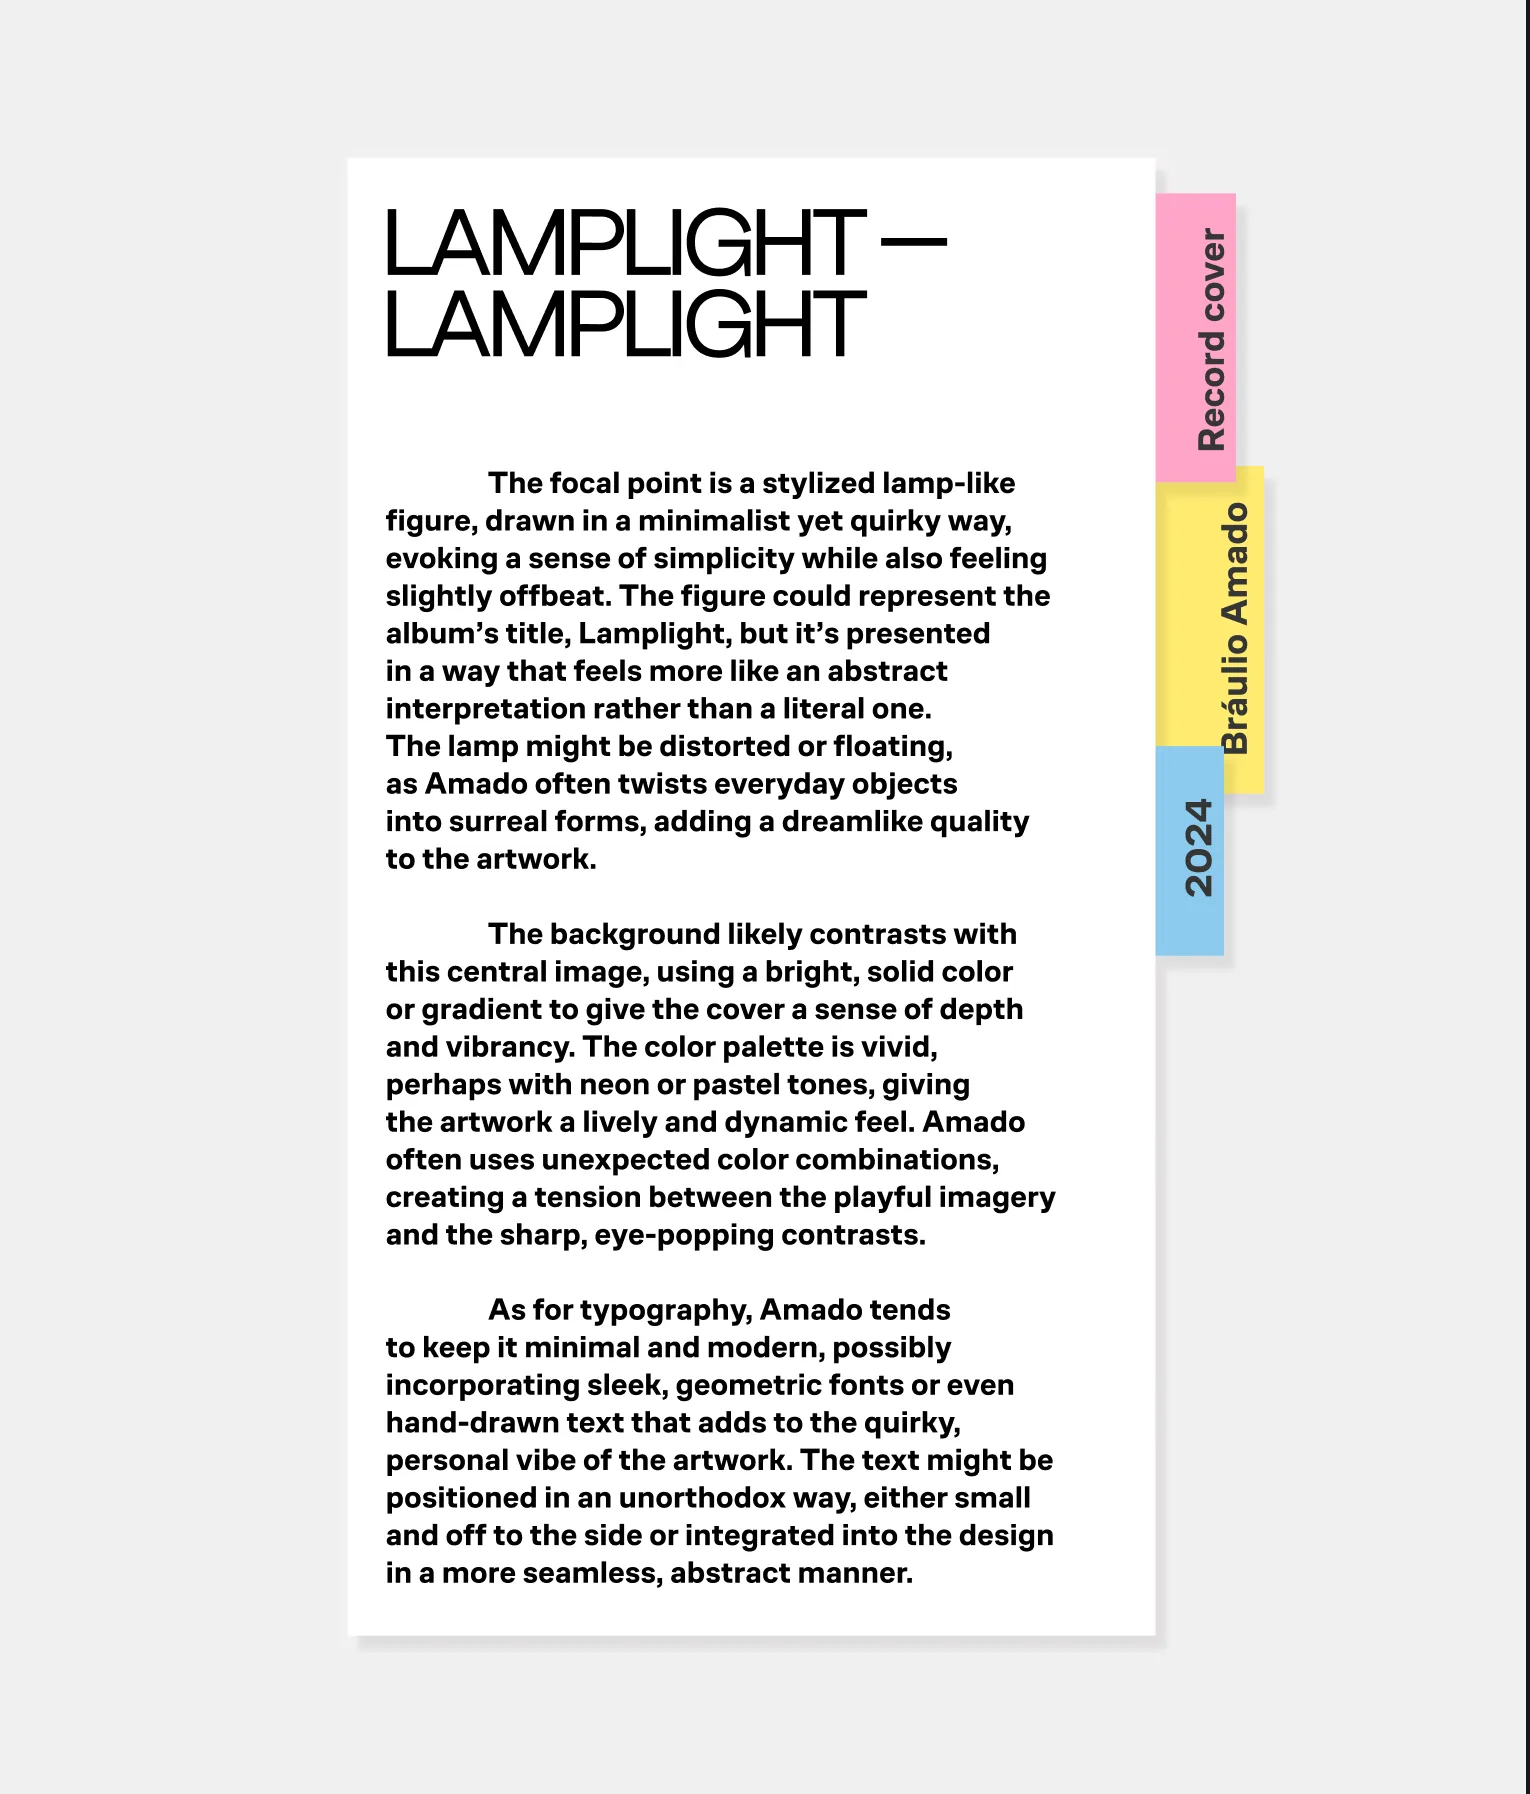
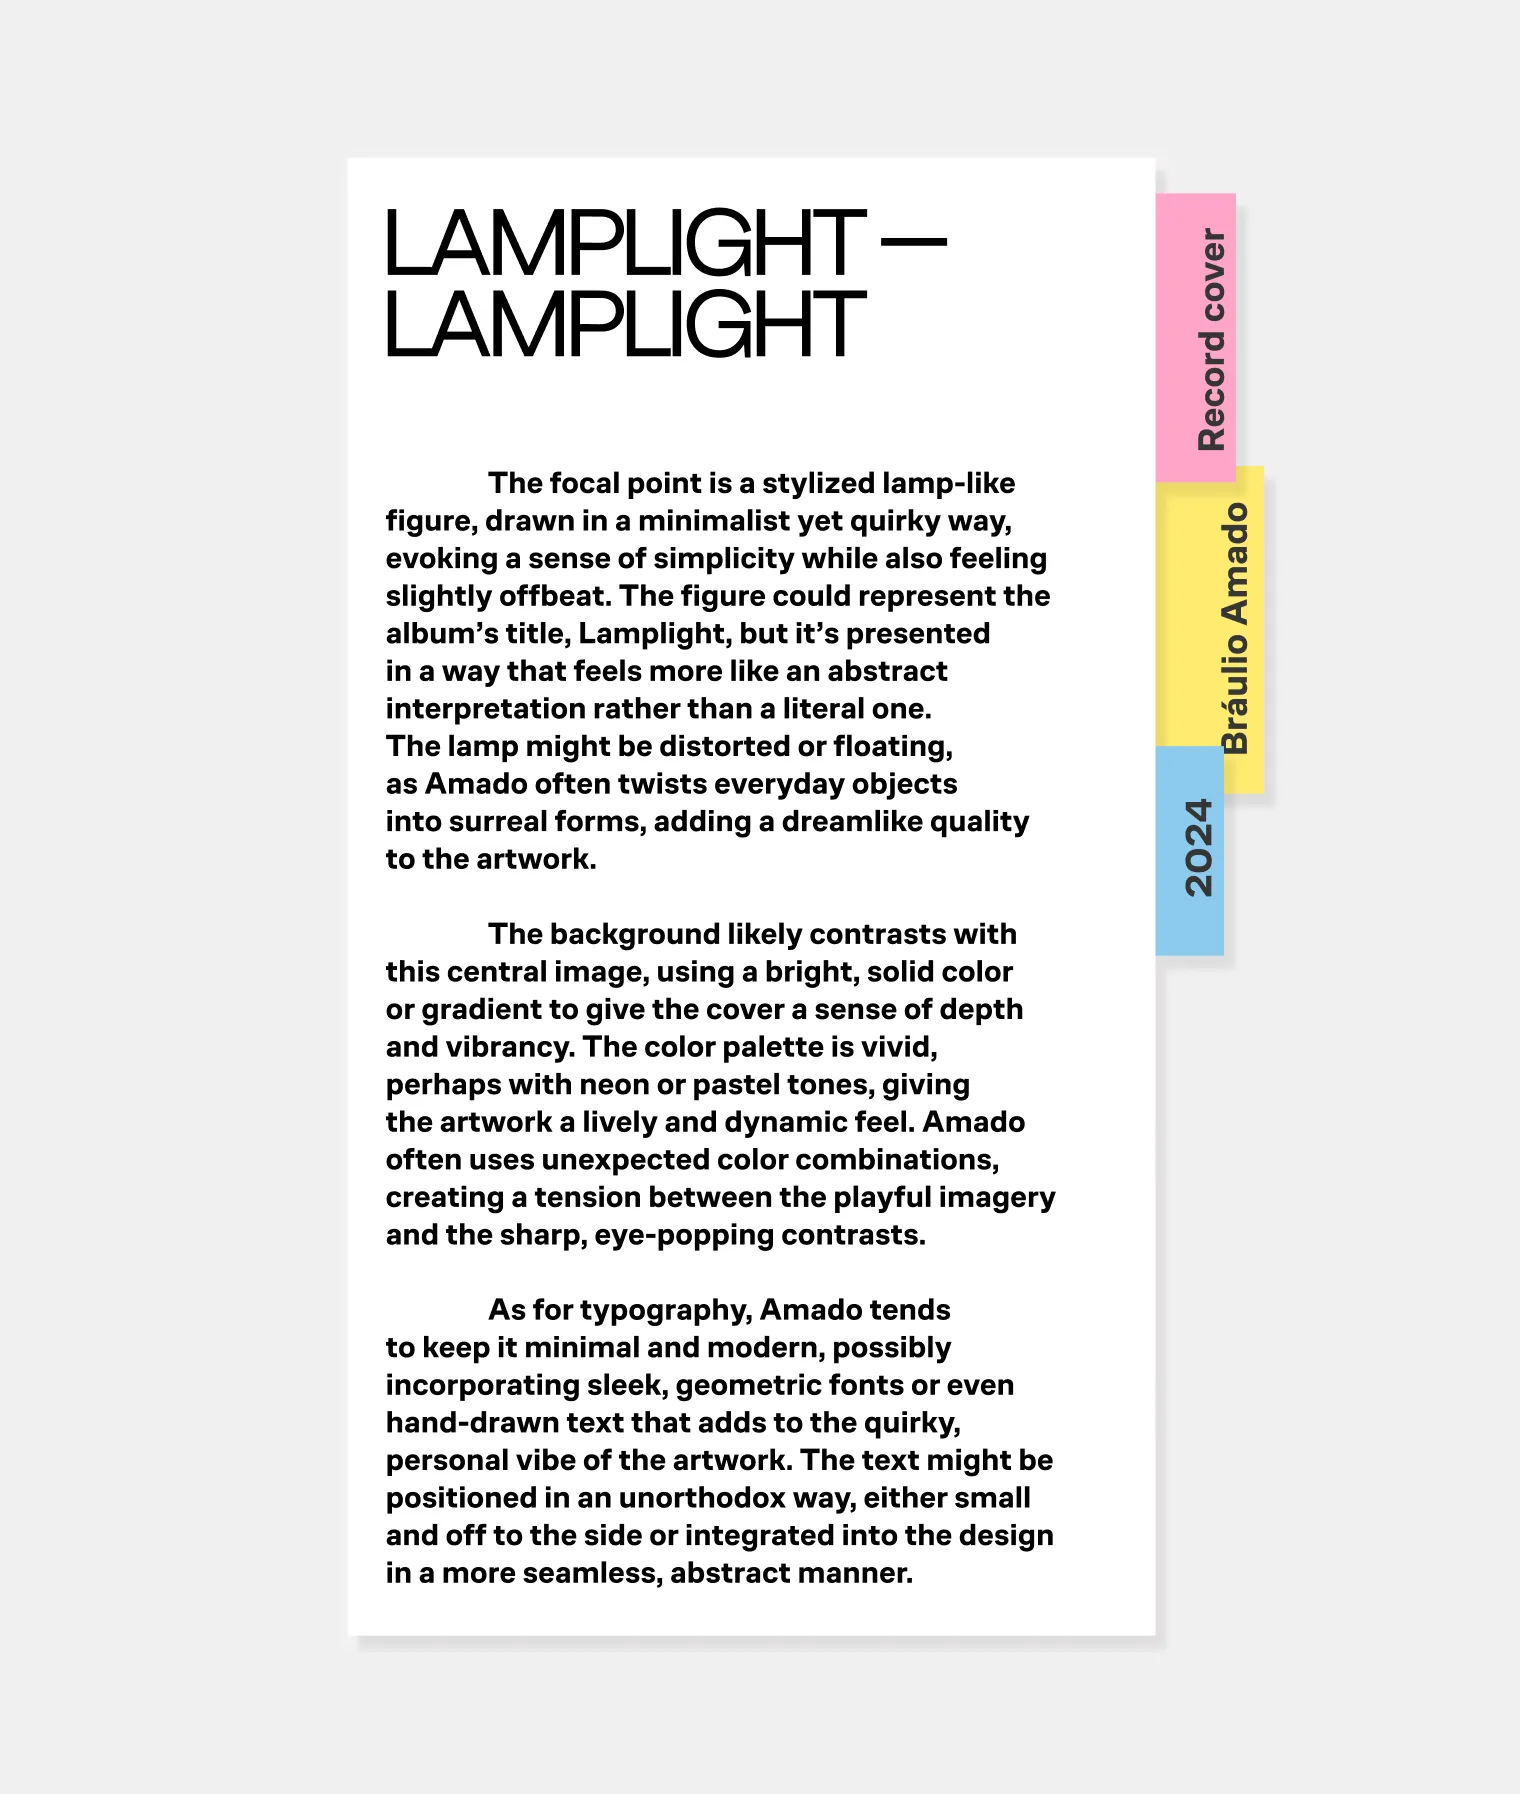
OP:ED: crop dark edge strip from oped-9
Claude-Session: https://claude.ai/code/session_01HpAFNtKwp58CZfqdxujU98

diff --git a/oped.html b/oped.html
@@ -222,7 +222,7 @@
 
         <div class="case-carousel-wrap">
           <div class="case-row case-carousel case-oped-pair">
-            <div class="case-media case-oped-pair__a"><img src="assets/oped/oped-9.webp" alt="" loading="lazy" decoding="async"></div>
+            <div class="case-media case-oped-pair__a"><img src="assets/oped/oped-9.webp?v=2" alt="" loading="lazy" decoding="async"></div>
             <div class="case-media case-oped-pair__b"><img src="assets/oped/oped-10.webp" alt="" loading="lazy" decoding="async"></div>
           </div>
         </div>
